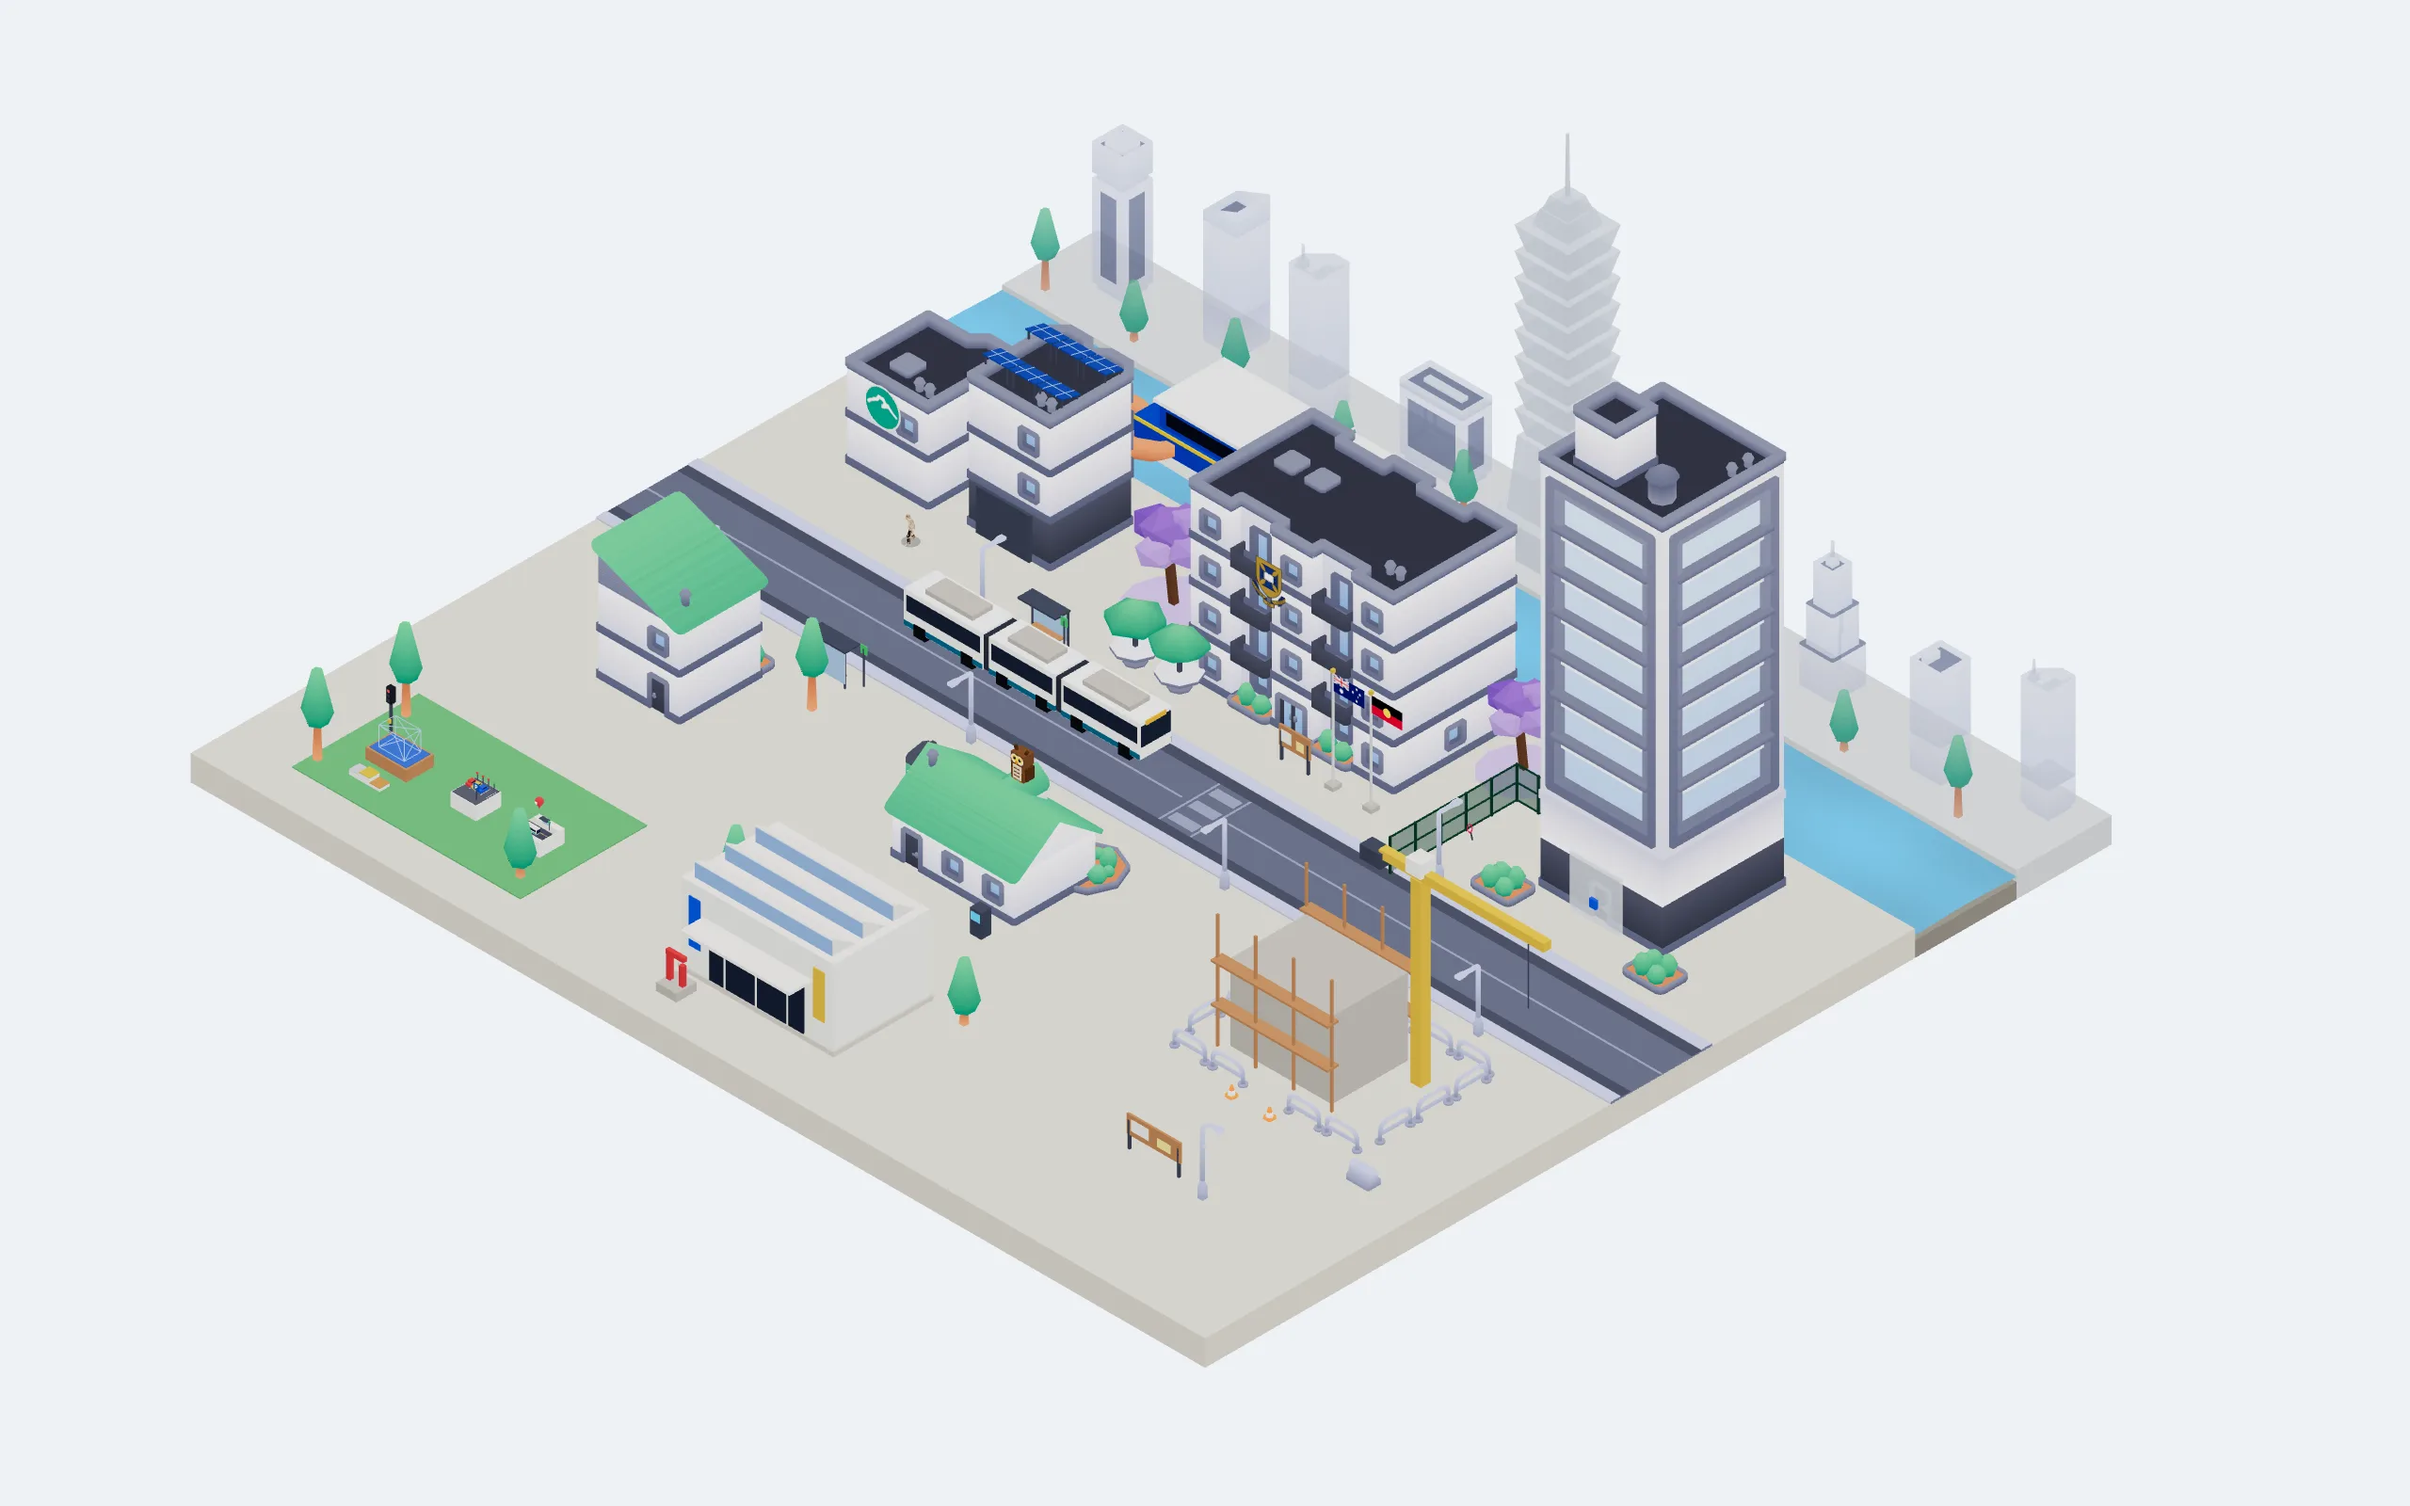
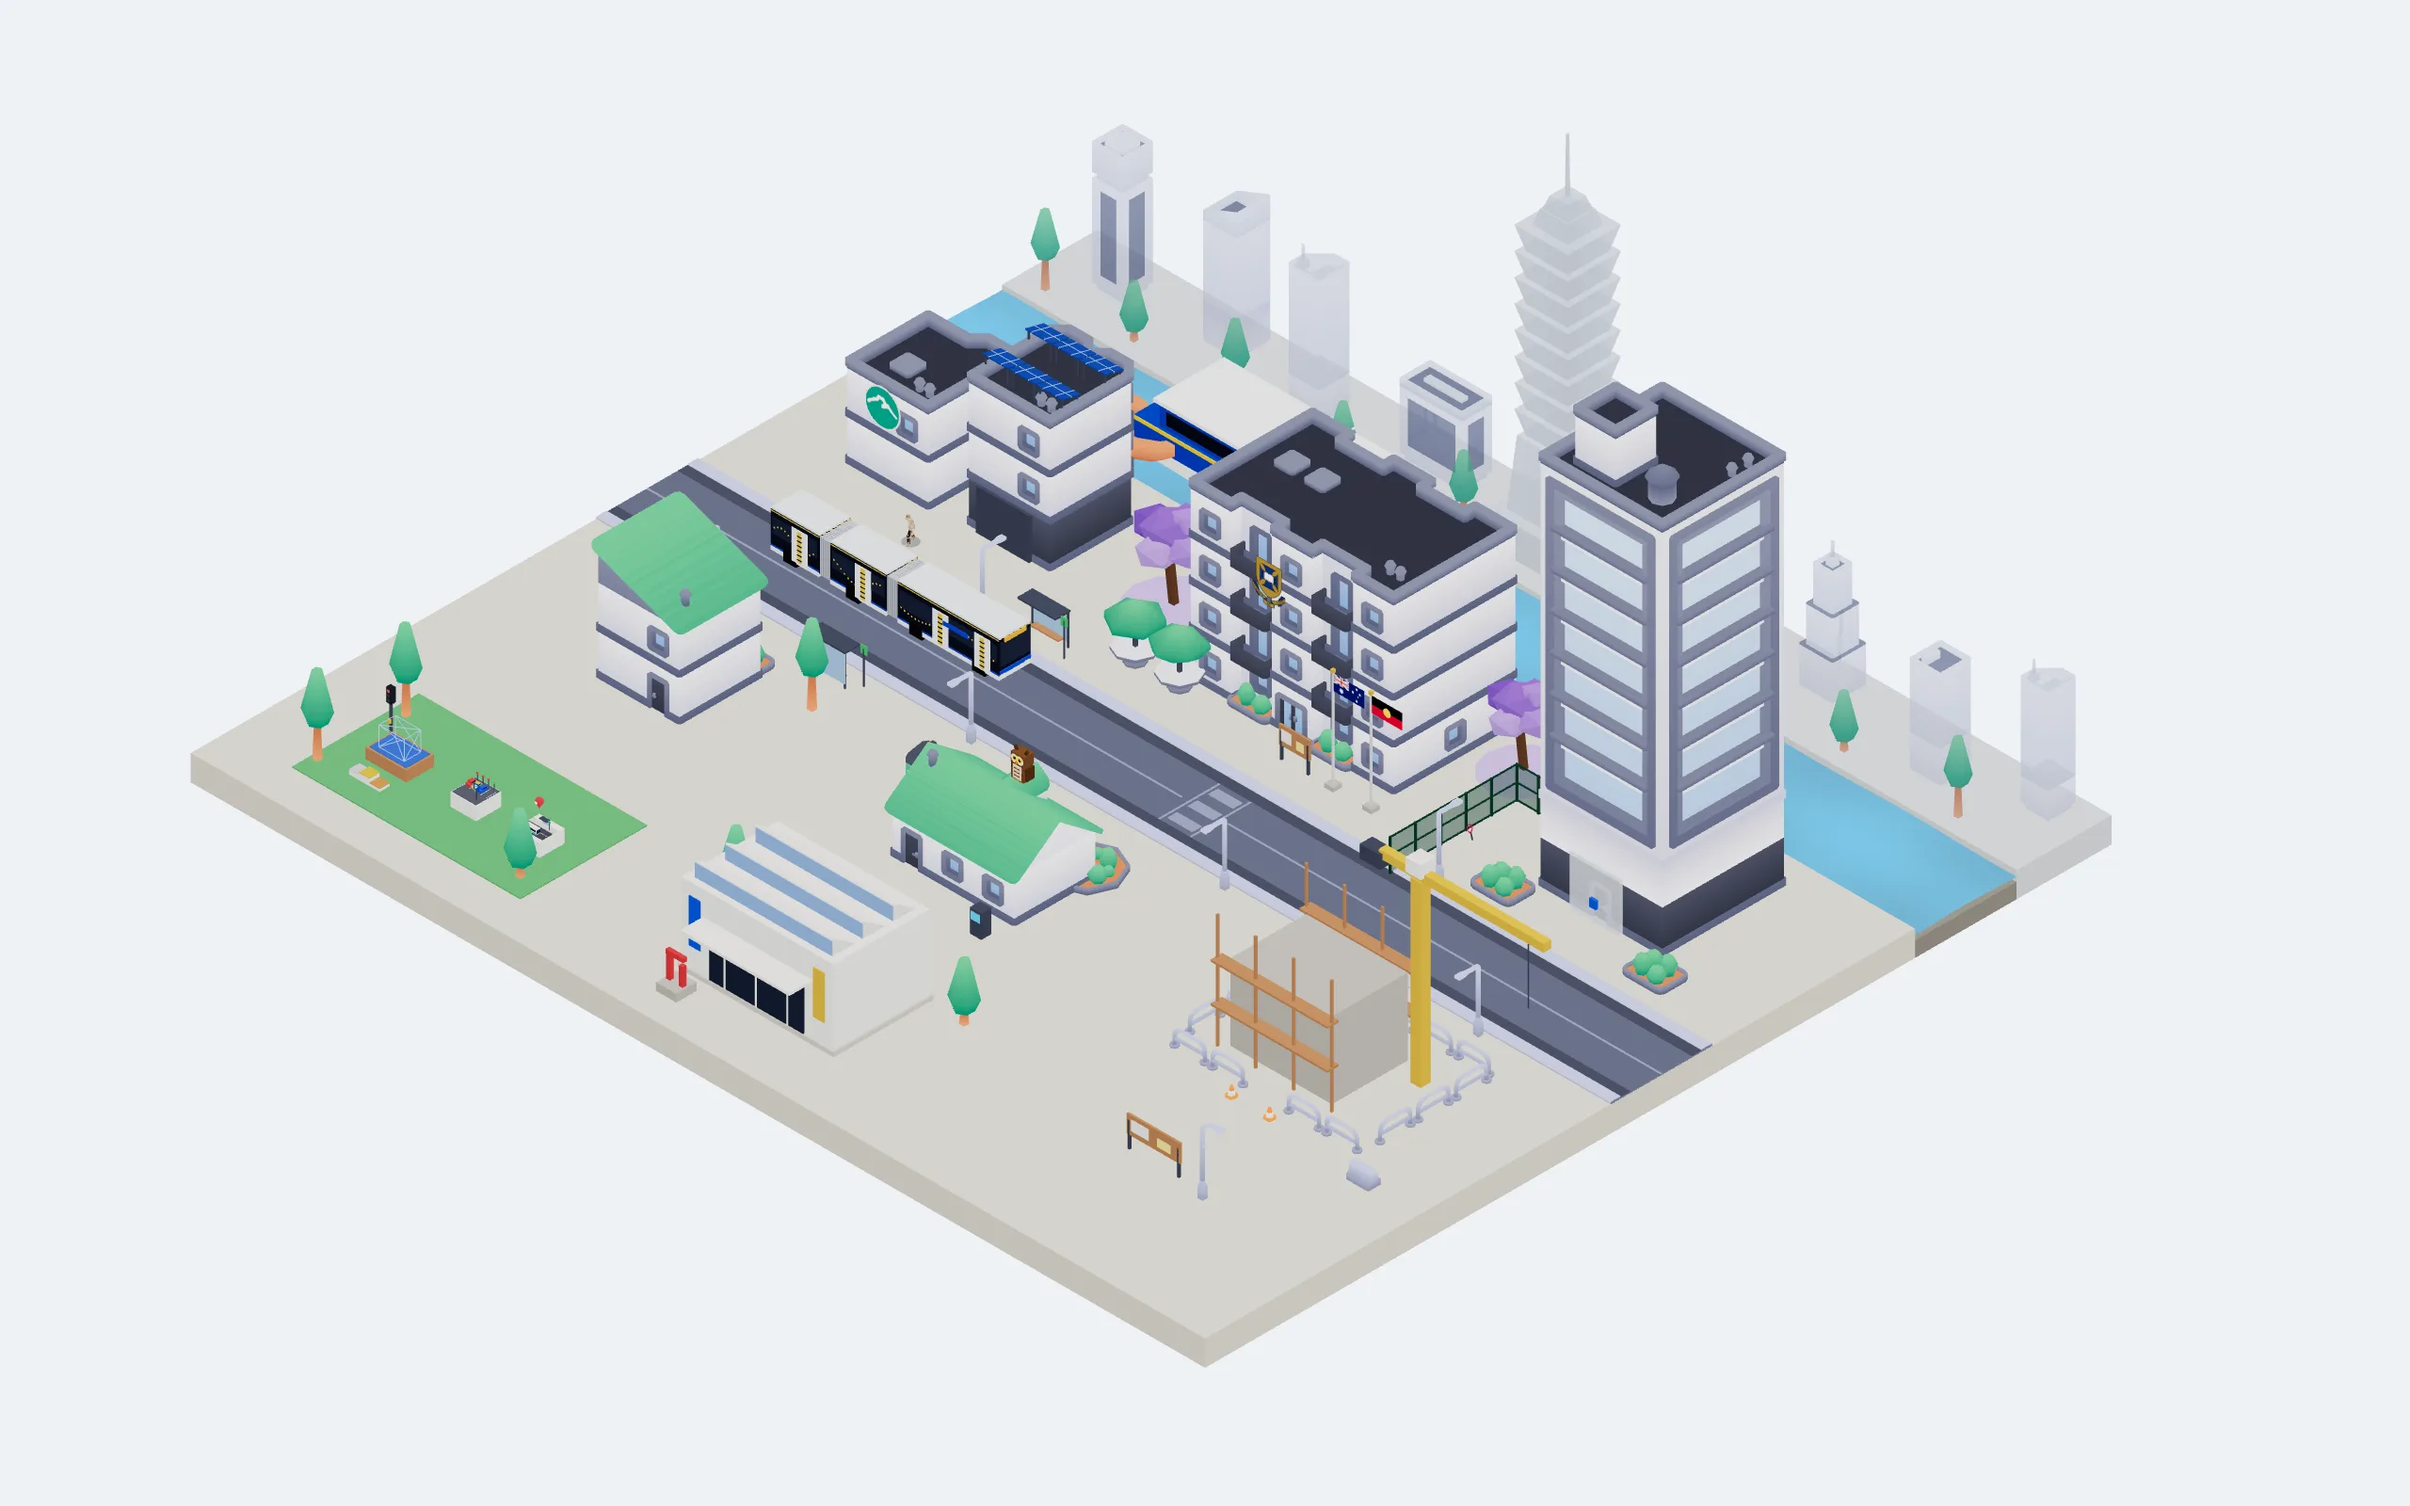
feat: give the /world bus its Brisbane Metro livery
Dark body, white skirt under a blue line, gold roofline, silver bellows,
yellow-and-black striped doors and the dotted wave, after Steven's photo.
The long cab car leads, and the bus stops with its front door at the shelter.

Changed region(s): [[0.3125, 0.3438, 0.5, 0.5]]

diff --git a/src/app/world/scene/Transit.tsx b/src/app/world/scene/Transit.tsx
@@ -9,10 +9,16 @@ import { PALETTE } from "./Props";
 import { STREET } from "../zones";
 
 /**
- * A Metro-style articulated bus on the street (Steven's request, alongside the CityCat on the
- * river). It drives on the left: east in the north lane, west in the south lane, pulling in at a
- * stop on each side. It waits for Steven if he is in its lane ahead, and it fades out past the
- * table's edge instead of driving off into the air. Under reduced motion it stands at the first stop.
+ * A Brisbane Metro on the street (Steven's request, alongside the CityCat on the river), after his
+ * photo: a dark bi-articulated bus with a white skirt under a blue line, a thin gold roofline,
+ * silver bellows, white doors striped yellow and black, and the yellow dotted wave along each side.
+ * A city's transit, like the CityCat and Taipei 101, not a brand (§4 rule 4). The "Brisbane Metro"
+ * lettering is a plain blue panel.
+ *
+ * It drives on the left: east in the north lane, west in the south lane, pulling in with its
+ * front door at a shelter on each side. It waits for Steven if he is in its lane ahead, and it is
+ * cut off past the table's edge instead of driving off into the air. Under reduced motion it
+ * stands at the first stop.
  */
 
 const LANE = { east: STREET.z - 1.7, west: STREET.z + 1.7 };
@@ -23,48 +29,92 @@ const STOPS = [
     { x: -14, side: "east" as const },
     { x: -20, side: "west" as const },
 ];
-/** Distance along the loop (east pass, then west pass) at which the bus's nose meets each stop. */
-const NOSE = 9.3;
-// The bus pulls up with its front doors at the shelter, a third of its length past it.
-const STOP_AT = STOPS.map(({ x, side }) => (side === "east" ? x + END + NOSE / 3 : LENGTH / 2 + (END - x) + NOSE / 3));
+/** Rear to front: the long car carries the cab. */
+const CARS = [3.8, 4.4, 8];
+const BELLOWS = 0.9;
+const TOTAL = CARS.reduce((a, b) => a + b, 0) + BELLOWS * (CARS.length - 1);
+const NOSE = TOTAL / 2;
+/** The front door, measured back from the nose. */
+const FRONT_DOOR = 1.3;
+/** Distance along the loop (east pass, then west pass) at which the front door meets each shelter. */
+const STOP_AT = STOPS.map(({ x, side }) =>
+    side === "east" ? x - (NOSE - FRONT_DOOR) + END : LENGTH / 2 + (END - (x + (NOSE - FRONT_DOOR))),
+);
 const CRUISE = 8;
 const ACCEL = 3;
 const DWELL = 4;
 const EDGE = 40;
 
-const BODY = "#f4f4f2";
-const GLASS = "#2a3446";
-const LIVERY = "#0b6e8a";
+const METRO = {
+    body: "#1b2030",
+    glass: "#2b3448",
+    skirt: "#f1f2f4",
+    blue: "#2456d6",
+    gold: "#e8b923",
+    roof: "#e6e8ec",
+    bellows: "#b9bdc5",
+    rib: "#8f949e",
+    door: "#f4f4f4",
+    stripe: "#f2c230",
+    tyre: "#15171c",
+};
 
 const box = (w: number, h: number, d: number, x: number, y: number, z: number, color: string) =>
     paint(new BoxGeometry(w, h, d).translate(x, y, z), color);
 
+/** A white door with the yellow-and-black stripe down its middle, on one side (±1). */
+function door(x: number, side: number): BufferGeometry[] {
+    const z = side * 1.27;
+    const parts = [box(1.25, 2.3, 0.04, x, 1.6, z, METRO.door), box(0.32, 2.1, 0.05, x, 1.6, z + side * 0.01, METRO.stripe)];
+    for (let y = 0.75; y < 2.6; y += 0.32) parts.push(box(0.34, 0.07, 0.06, x, y, z + side * 0.015, METRO.body));
+    return parts;
+}
+
+/** The dotted yellow wave along one side of a car. */
+function wave(x0: number, len: number, side: number, phase: number): BufferGeometry[] {
+    const parts: BufferGeometry[] = [];
+    for (let t = 0.3; t < len - 0.3; t += 0.28) {
+        const y = 1.75 + Math.sin(phase + (t / len) * Math.PI * 2.2) * 0.45;
+        parts.push(box(0.09, 0.09, 0.03, x0 + t, y, side * 1.27, METRO.gold));
+    }
+    return parts;
+}
+
 /** Three cars and two bellows, nose towards +x, centred on the origin at road level. */
 function busGeometry(): BufferGeometry {
-    const cars = [6.2, 5.2, 6.2];
-    const gap = 0.5;
-    const total = cars.reduce((a, b) => a + b, 0) + gap * (cars.length - 1);
     const parts: BufferGeometry[] = [];
-    let x = -total / 2;
-    cars.forEach((len, i) => {
+    let x = -TOTAL / 2;
+    CARS.forEach((len, i) => {
         const cx = x + len / 2;
-        parts.push(box(len, 2.5, 2.5, cx, 1.7, 0, BODY));
-        parts.push(box(len - 0.4, 1.1, 2.52, cx, 2.05, 0, GLASS));
-        parts.push(box(len, 0.35, 2.52, cx, 0.65, 0, LIVERY));
-        parts.push(box(len * 0.6, 0.3, 1.6, cx, 3.1, 0, PALETTE.concrete));
-        for (const dx of [-0.3, 0.3]) parts.push(box(0.9, 0.9, 2.56, cx + dx * len, 0.45, 0, "#1d2027"));
-        // Doors on the kerb side (−z for the east pass; the whole bus turns round for the west).
-        parts.push(box(1.1, 2.1, 0.04, cx, 1.5, -1.27, "#c9ccd2"));
+        parts.push(box(len, 2.55, 2.5, cx, 1.83, 0, METRO.body));
+        parts.push(box(len - 0.3, 1.15, 2.52, cx, 2.1, 0, METRO.glass));
+        parts.push(box(len, 0.32, 2.52, cx, 0.5, 0, METRO.skirt));
+        parts.push(box(len, 0.1, 2.53, cx, 0.71, 0, METRO.blue));
+        parts.push(box(len, 0.06, 2.54, cx, 3.06, 0, METRO.gold));
+        parts.push(box(len, 0.14, 2.4, cx, 3.17, 0, METRO.roof));
+        for (const side of [-1, 1]) parts.push(...wave(x, len, side, i * 1.7));
+        const front = i === CARS.length - 1;
+        // Wheels: two axles on the front car, one on each of the others.
+        const axles = front ? [cx - len * 0.32, cx + len * 0.3] : [cx - len * 0.1];
+        for (const ax of axles) parts.push(box(1, 1, 2.56, ax, 0.5, 0, METRO.tyre));
+        // Doors on both sides, as the Metro has them.
+        const doors = front ? [x + len - FRONT_DOOR, cx - 0.6] : [cx + 0.4];
+        for (const dx of doors) for (const side of [-1, 1]) parts.push(...door(dx, side));
         x += len;
-        if (i < cars.length - 1) {
-            parts.push(box(gap, 2.3, 2.3, x + gap / 2, 1.65, 0, "#3a3f4a"));
-            x += gap;
+        if (i < CARS.length - 1) {
+            parts.push(box(BELLOWS, 2.6, 2.34, x + BELLOWS / 2, 1.75, 0, METRO.bellows));
+            for (let r = 0.12; r < BELLOWS; r += 0.16) parts.push(box(0.04, 2.6, 2.36, x + r, 1.75, 0, METRO.rib));
+            x += BELLOWS;
         }
     });
-    const nose = total / 2;
-    parts.push(box(0.06, 1.4, 2.3, nose + 0.02, 2.0, 0, GLASS));
-    parts.push(box(0.07, 0.3, 1.6, nose + 0.03, 2.8, 0, "#f0a92e"));
-    for (const z of [-0.9, 0.9]) parts.push(box(0.06, 0.18, 0.4, nose + 0.03, 0.85, z, "#fff6d8"));
+    // The nose: dark glass, the blue band low down, a sign panel and headlights.
+    const nose = TOTAL / 2;
+    parts.push(box(0.08, 1.6, 2.3, nose + 0.03, 2.05, 0, METRO.glass));
+    parts.push(box(0.09, 0.14, 2.4, nose + 0.04, 0.9, 0, METRO.blue));
+    parts.push(box(0.09, 0.28, 1.7, nose + 0.04, 2.95, 0, "#f0a92e"));
+    for (const z of [-0.95, 0.95]) parts.push(box(0.08, 0.16, 0.36, nose + 0.05, 0.62, z, "#fff6d8"));
+    // The "Brisbane Metro" panel behind the front door, on both sides.
+    for (const side of [-1, 1]) parts.push(box(2, 0.32, 0.03, nose - 3.4, 2.15, side * 1.275, METRO.blue));
     return mergeParts(parts);
 }
 

diff --git a/WORLD.md b/WORLD.md
@@ -1025,7 +1025,16 @@ head, which move. Both stop moving under reduced motion. That adds four draw cal
 - **A bus on the street** (`scene/Transit.tsx`): a Metro-style articulated bus that drives on the
   left and pulls in at a shelter on each side. It waits if Steven is in its lane ahead, and is cut
   off at the table's edge so it doesn't drive off into the air. Under reduced motion, and in the
-  poster, it stands at the first stop. The livery is a placeholder until Steven sends a photo.
+  poster, it stands at the first stop.
+- **Brisbane Metro livery**, from Steven's photo:
+  - a dark body, a white skirt under a blue line, and a thin gold roofline;
+  - silver ribbed bellows;
+  - white doors on both sides, striped yellow and black;
+  - the yellow dotted wave along each side;
+  - a blue panel where the "Brisbane Metro" lettering goes.
+
+  The long car carries the cab, and the bus pulls up with its front door at the shelter. It is a
+  city's transit, like the CityCat, so §4 rule 4 doesn't apply.
 
 ### To launch (all content or devices, no code)
 
